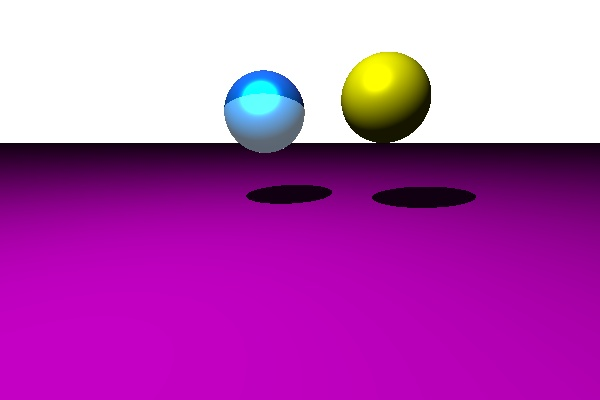
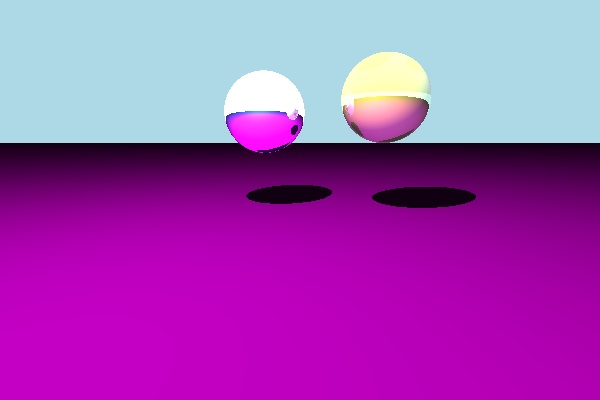
a

diff --git a/render/Camera.h b/render/Camera.h
@@ -73,7 +73,7 @@ class Camera{
 
         glm::vec3 calculateColor(const Ray &ray, std::vector<Object *> objects, std::vector<Light *> lights, glm::vec3 ambientLight, int prof){
             
-            glm::vec3 result(1.0F, 1.0F, 1.0F);
+            glm::vec3 result(173 / 255.0f,216/ 255.0f,230/ 255.0f);
             glm::vec3 normal;
             
             
@@ -103,6 +103,7 @@ class Camera{
                 glm::vec3  ambient = ambientLight * min_obj->getKd();
                 
                 glm::vec3  color_reflexivo(0,0,0);
+                glm::vec3  color_refractivo(0,0,0);
 
                 float kr = min_obj->getKs();
                 float kt = 0;
@@ -148,19 +149,24 @@ class Camera{
                     auto bias = 0.0001f * normal;
 
                     if(min_obj->getIdr() > 0){
-
                         fresnel(ray.d, normal, min_obj->idr, kr);
                         if(kr < 1){
                             kt = 1 - kr;
                             Ray refractive_ray;
                             refractive_ray.o = outside? pi - bias :pi + bias;
                             refractive_ray.d = glm::normalize( refract(ray.d, normal, min_obj->idr) );
-                            color_reflexivo = calculateColor(refractive_ray, objects, lights, ambientLight ,prof+1);
-                            
+                            color_refractivo = calculateColor(refractive_ray, objects, lights, ambientLight ,prof+1);
                         }
                     }
+                    if(kr > 0){
+                        Ray reflexive_ray;
+                        reflexive_ray.o  = outside? pi - bias : pi + bias;
+                        reflexive_ray.d = glm::normalize(2 * glm::dot(v, normal) * normal - v);
+                        color_reflexivo = calculateColor(reflexive_ray, objects, lights, ambientLight, prof + 1);
+                    }
+
                     result = min_obj->get_color() * (ambient +  especular + difusa);
-                    result = result + color_reflexivo * kr;
+                    result = result + color_reflexivo * kr + color_refractivo * kt;
                     result  = glm::clamp(result, 0.0f,1.0f);
                 }
             }

diff --git a/main.cpp b/main.cpp
@@ -25,7 +25,7 @@ int main(){
         0.9, // kd
         0.5, // ks
         8,// n
-        0
+        23
     );
 
 
@@ -34,9 +34,9 @@ int main(){
         {0, 0.5 , 1}, //color
         4, // radious
         0.9,
-        10,
-        6,
-        4
+        2,
+        3,
+        0 // idr
     );
 
     Object* pPlane = new Plane(
@@ -45,7 +45,8 @@ int main(){
         2, // d
         0.7,
         0,
-        1
+        1,
+        0
     );
 
 
